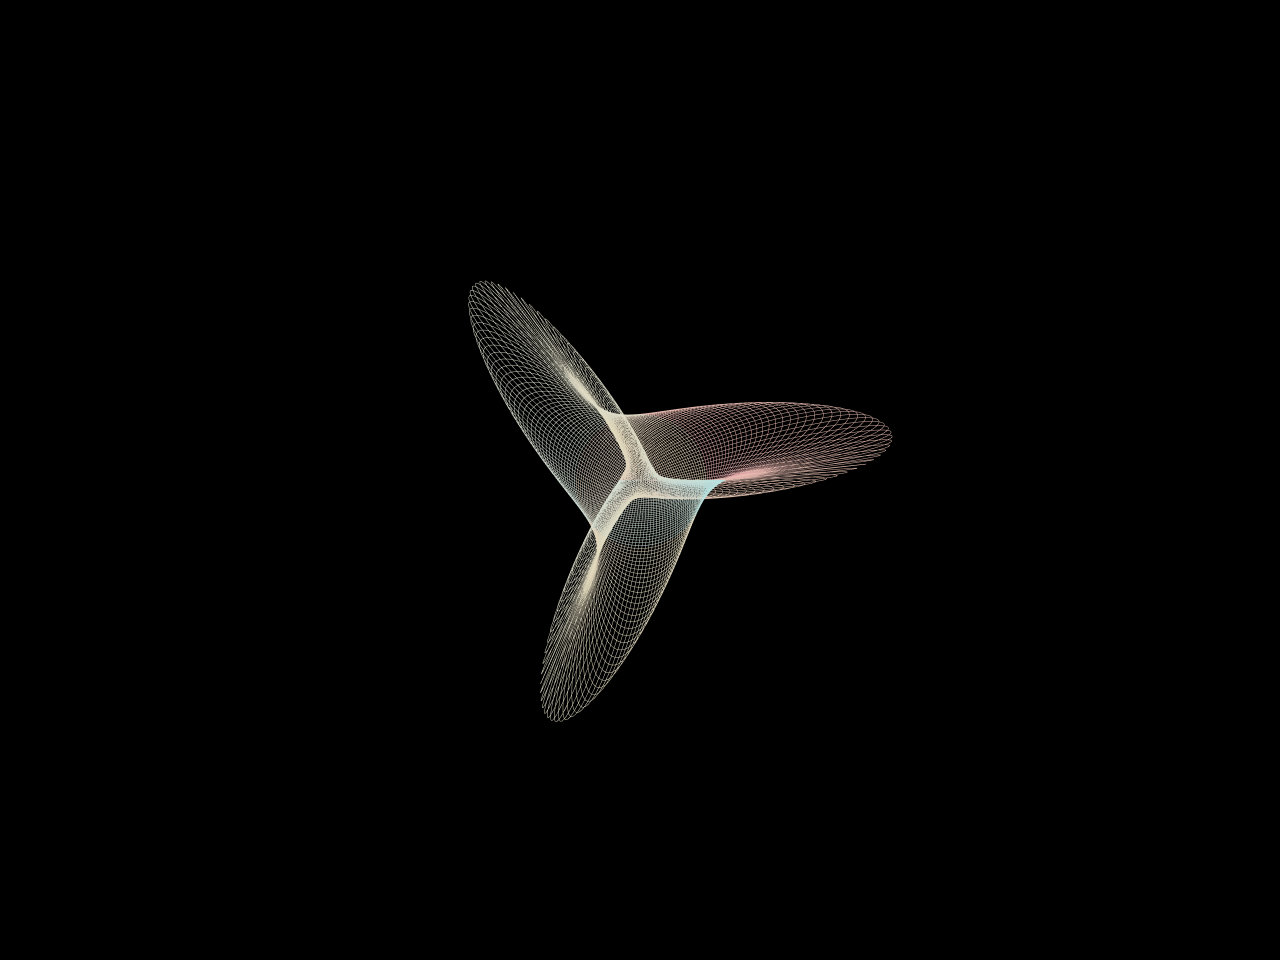
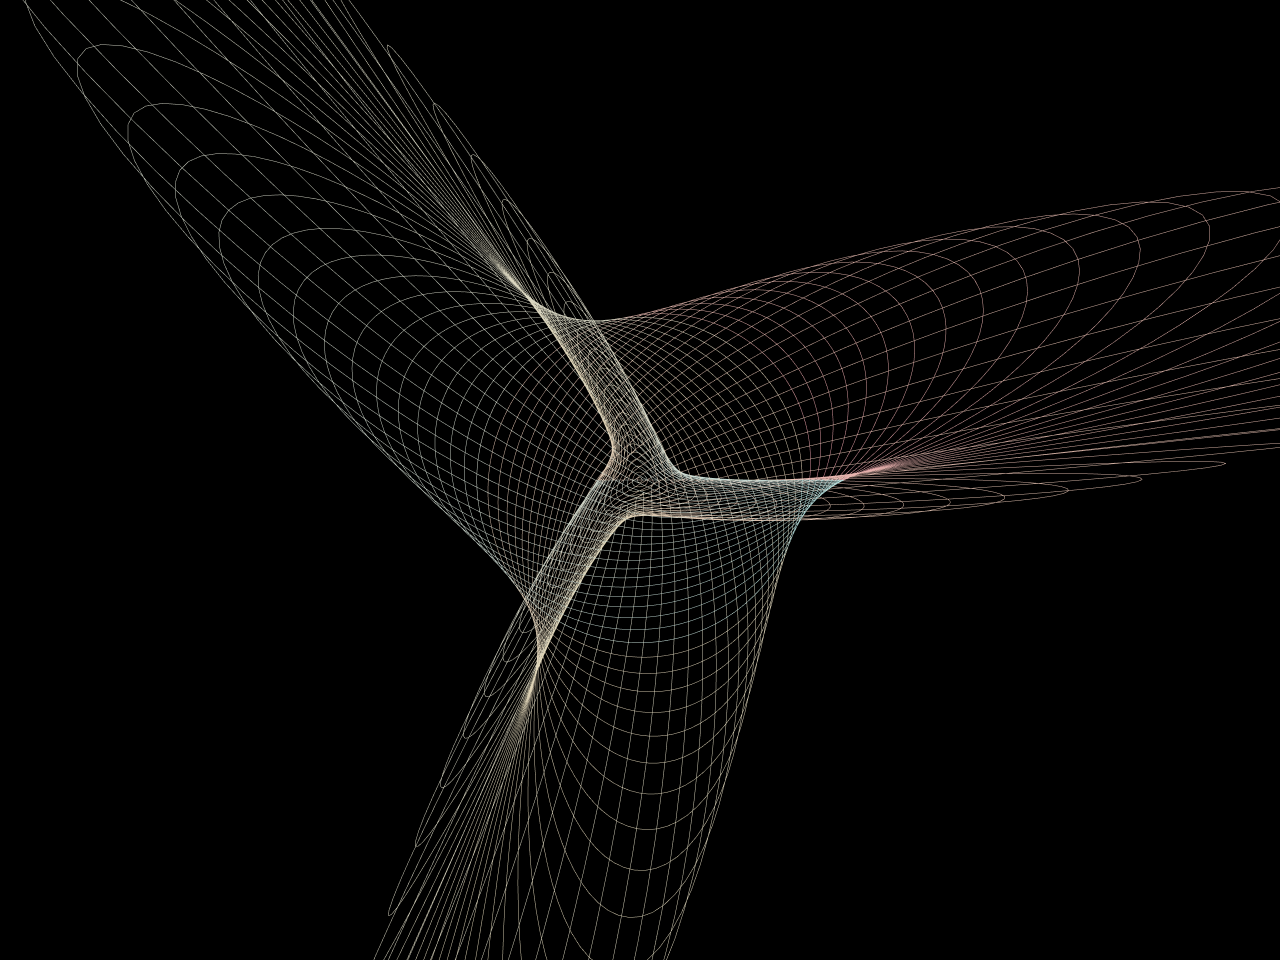
Frame Boy trails larger; thin triple-point clump.

diff --git a/packages/frontend/src/utils/boySurface.ts b/packages/frontend/src/utils/boySurface.ts
@@ -5,6 +5,8 @@ const SQRT5 = Math.sqrt(5)
 const U_RES = 80
 const V_RES = 80
 const TARGET_R = 1.7
+/** Trails / wires fill the frame better than the mesh scale. */
+const TARGET_R_TRAIL = 2.55
 
 export type BoyPoint = {
 	x: number
@@ -218,7 +220,7 @@ export function sampleBoyCloud(nu = 96, nv = 96): BoyCloud {
  * Row-major UV scan as one polyline (legacy line trail).
  * Odd rows reverse so the strip snakes continuously.
  */
-export function sampleBoyScanline(nu = 240, nv = 160): BoyCloud {
+export function sampleBoyScanline(nu = 160, nv = 96): BoyCloud {
 	const count = nu * nv
 	const positions = new Float32Array(count * 3)
 	const colors = new Float32Array(count * 3)
@@ -239,12 +241,15 @@ export function sampleBoyScanline(nu = 240, nv = 160): BoyCloud {
 			k += 3
 		}
 	}
-	centerAndScale(positions, TARGET_R)
-	return { positions, colors, count }
+	centerAndScale(positions, TARGET_R_TRAIL)
+	return thinNearOrigin(positions, colors, 0.18)
 }
 
-/** Constant-u and constant-v curves as a dense point wire. */
-export function sampleBoyIsolines(nu = 72, nv = 72, samples = 280): BoyCloud {
+/**
+ * Constant-u / constant-v curves as a point wire.
+ * Fewer curves than a dense grid — keeps the triple-point open instead of a white clump.
+ */
+export function sampleBoyIsolines(nu = 22, nv = 22, samples = 220): BoyCloud {
 	const count = (nu + nv) * samples
 	const positions = new Float32Array(count * 3)
 	const colors = new Float32Array(count * 3)
@@ -277,8 +282,30 @@ export function sampleBoyIsolines(nu = 72, nv = 72, samples = 280): BoyCloud {
 			k += 3
 		}
 	}
-	centerAndScale(positions, TARGET_R)
-	return { positions, colors, count }
+	centerAndScale(positions, TARGET_R_TRAIL)
+	return thinNearOrigin(positions, colors, 0.22)
+}
+
+/** Drop verts inside a ball so the triple-point does not paint solid white. */
+function thinNearOrigin(positions: Float32Array, colors: Float32Array, minR: number): BoyCloud {
+	const kept: number[] = []
+	const keptC: number[] = []
+	const minR2 = minR * minR
+	for (let i = 0; i < positions.length; i += 3) {
+		const x = positions[i]
+		const y = positions[i + 1]
+		const z = positions[i + 2]
+		if (x * x + y * y + z * z < minR2) {
+			continue
+		}
+		kept.push(x, y, z)
+		keptC.push(colors[i], colors[i + 1], colors[i + 2])
+	}
+	return {
+		positions: new Float32Array(kept),
+		colors: new Float32Array(keptC),
+		count: kept.length / 3,
+	}
 }
 
 export function buildBryantBoyMesh(): BoyMesh {

diff --git a/packages/frontend/src/pages/misc/boy_jury_isolines.tsx b/packages/frontend/src/pages/misc/boy_jury_isolines.tsx
@@ -47,9 +47,9 @@ const BoyJuryIsolines = () => {
 		<Base<TData>
 			dimension={EDimensions.THREE_D}
 			numParticles={cloud.count}
-			pointSize={0.035}
+			pointSize={0.055}
 			tick={tick}
-			cameraPosition={[0, 0, 4.2]}
+			cameraPosition={[0, 0, 2.85]}
 			autoRotate={!isScreenshotMode()}
 			autoRotateSpeed={0.28}
 		/>

diff --git a/packages/frontend/src/pages/misc/boy_jury_lines.tsx b/packages/frontend/src/pages/misc/boy_jury_lines.tsx
@@ -59,7 +59,7 @@ const BoyJuryLines = () => {
 			lineOpacity={0.92}
 			autoRotate={!isScreenshotMode()}
 			autoRotateSpeed={0.32}
-			cameraPosition={[0, 0, 4.2]}
+			cameraPosition={[0, 0, 2.85]}
 		/>
 	)
 }
